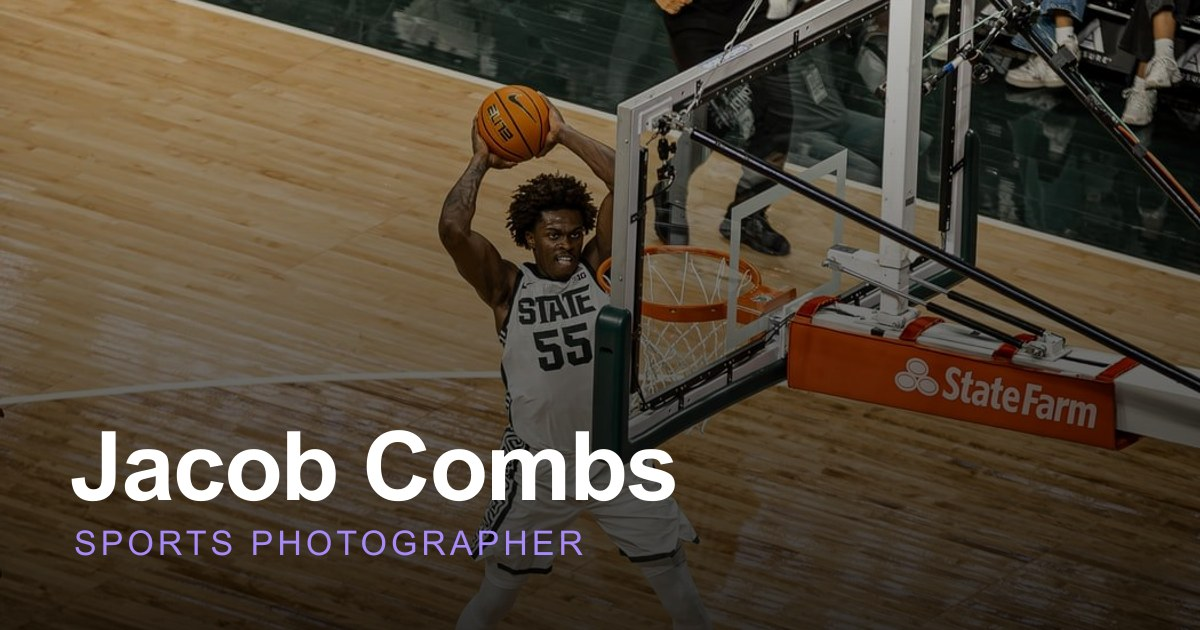
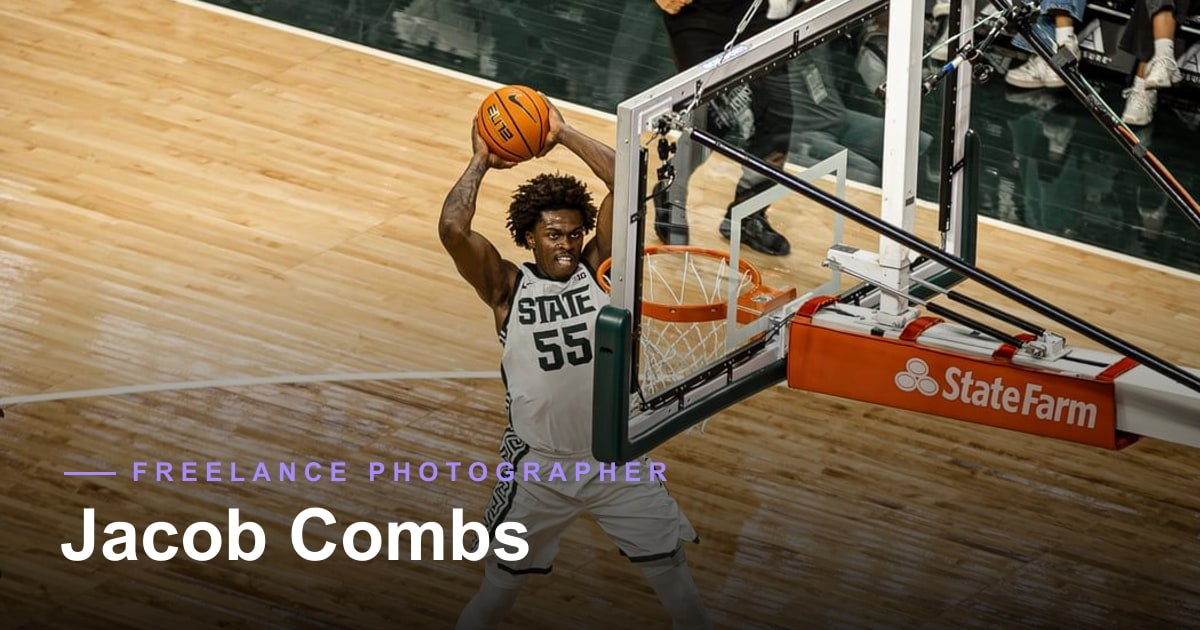
Hero: B&W cutout, ~1.6x bigger, "Freelance Photographer"
Jacob's asks: the same landing photo in black & white, himself roughly double
on screen, and a label that covers more than sports.

- Restored public/jacob-hero-bw.png from git history (c44ccc5) — the grayscale
  of this exact cutout from the June experiment, so it is the same picture.
- He is bottom-anchored, so growing him needs a paired downward shift or his
  head clips at the top: translate = height - 100svh + ~4svh headroom. Now
  h-95svh/120/140 (was 72/82/90 capped 920px) -> ~1.32x on phones (gentler so
  his head clears the nav), 1.46x tablet, 1.56x desktop, chest-up framing with
  the crop below the fold. Verified against computed styles; the entrance zoom
  overshoots while still near-transparent, which is fine.
- Kicker, alt text, site.ts role, and the meta description now say Freelance
  Photographer; og-image.jpg regenerated (old one had SPORTS PHOTOGRAPHER
  baked into the pixels) via scripts/make-og-image.mjs, kept in the repo this
  time because the original recipe was lost.
- The About bio still says "sports photographer" — that is his approved bio
  text, flagged separately rather than changed.

diff --git a/src/data/site.ts b/src/data/site.ts
@@ -2,7 +2,7 @@
 export const site = {
   name: "Jacob Combs",
   brand: "jc_wrks",
-  role: "Sports Photographer",
+  role: "Freelance Photographer",
   email: "jacobcombsphotography@gmail.com",
   // response expectation shown on Contact/Book
   responseTime: "within 24 hours",
